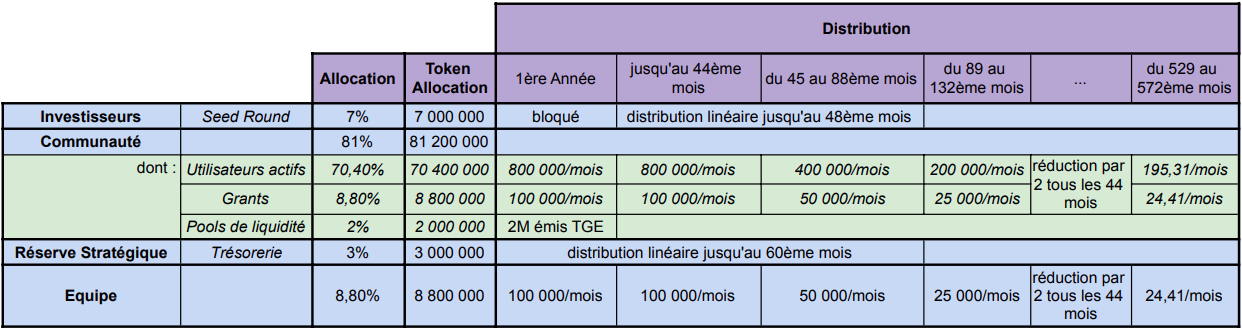
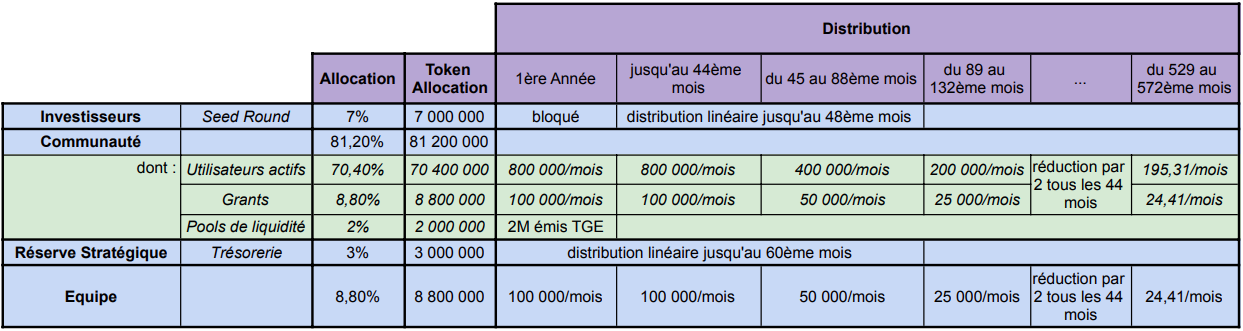
GITBOOK-28: No subject

diff --git a/modele-economique/le-jeton-dcast/copy-of-tokenomics/README.md b/modele-economique/le-jeton-dcast/copy-of-tokenomics/README.md
@@ -30,17 +30,17 @@ La distribution totale des tokens DCAST est prévue comme suit:
 
 * **Investisseurs** : 7% (7M)
   * _<mark style="color:purple;">**Seed Round**</mark>_ : 7% (7M) - Blocage d'1 an puis distribution linéaire sur 3 ans
-* **Communauté** : 88% (88M)
+* **Communauté** : 81,2% (81,2M)
   * L'émission des tokens suit un **plan de** **distribution mensuel** : initialement, 1 million de tokens seront distribués chaque mois pendant les premiers 44 mois, réparti suivant l'activité du mois précédent. À l'issue de cette période, un **halving** (réduction de moitié de l'émission mensuelle) interviendra tous les 44 mois, continuant ainsi jusqu'à atteindre le plafond total de 88 millions de tokens émis.
   * _<mark style="color:purple;">**Utilisateurs actifs**</mark>_ : 70,4% (70,4M) (80% de la distribution mensuelle)
   * _<mark style="color:purple;">**Grants**</mark>_ : 8,8% (8,8M) (10% de la distribution mensuelle)
   * _<mark style="color:purple;">**Pools de liquidité**</mark>_ : 2% (2M) - Emission TGE
 * **Equipe** : 8,8% (8,8M) (10% de la distribution mensuelle)
-  * distribution identique à la communauté
+  * plan de distribution identique à la communauté
 * **Réserve stratégique** : 3% (3M)
   * _<mark style="color:purple;">**Trésorerie**</mark>_ : 3% (3M) - Distribution linéaire sur 60 mois&#x20;
 
-<figure><img src="../../../.gitbook/assets/image.png" alt=""><figcaption><p>Répartition des tokens</p></figcaption></figure>
+<figure><img src="../../../.gitbook/assets/image (1).png" alt=""><figcaption><p>Répartition des tokens</p></figcaption></figure>
 
 ### **Évolution de l'offre en circulation**
 
